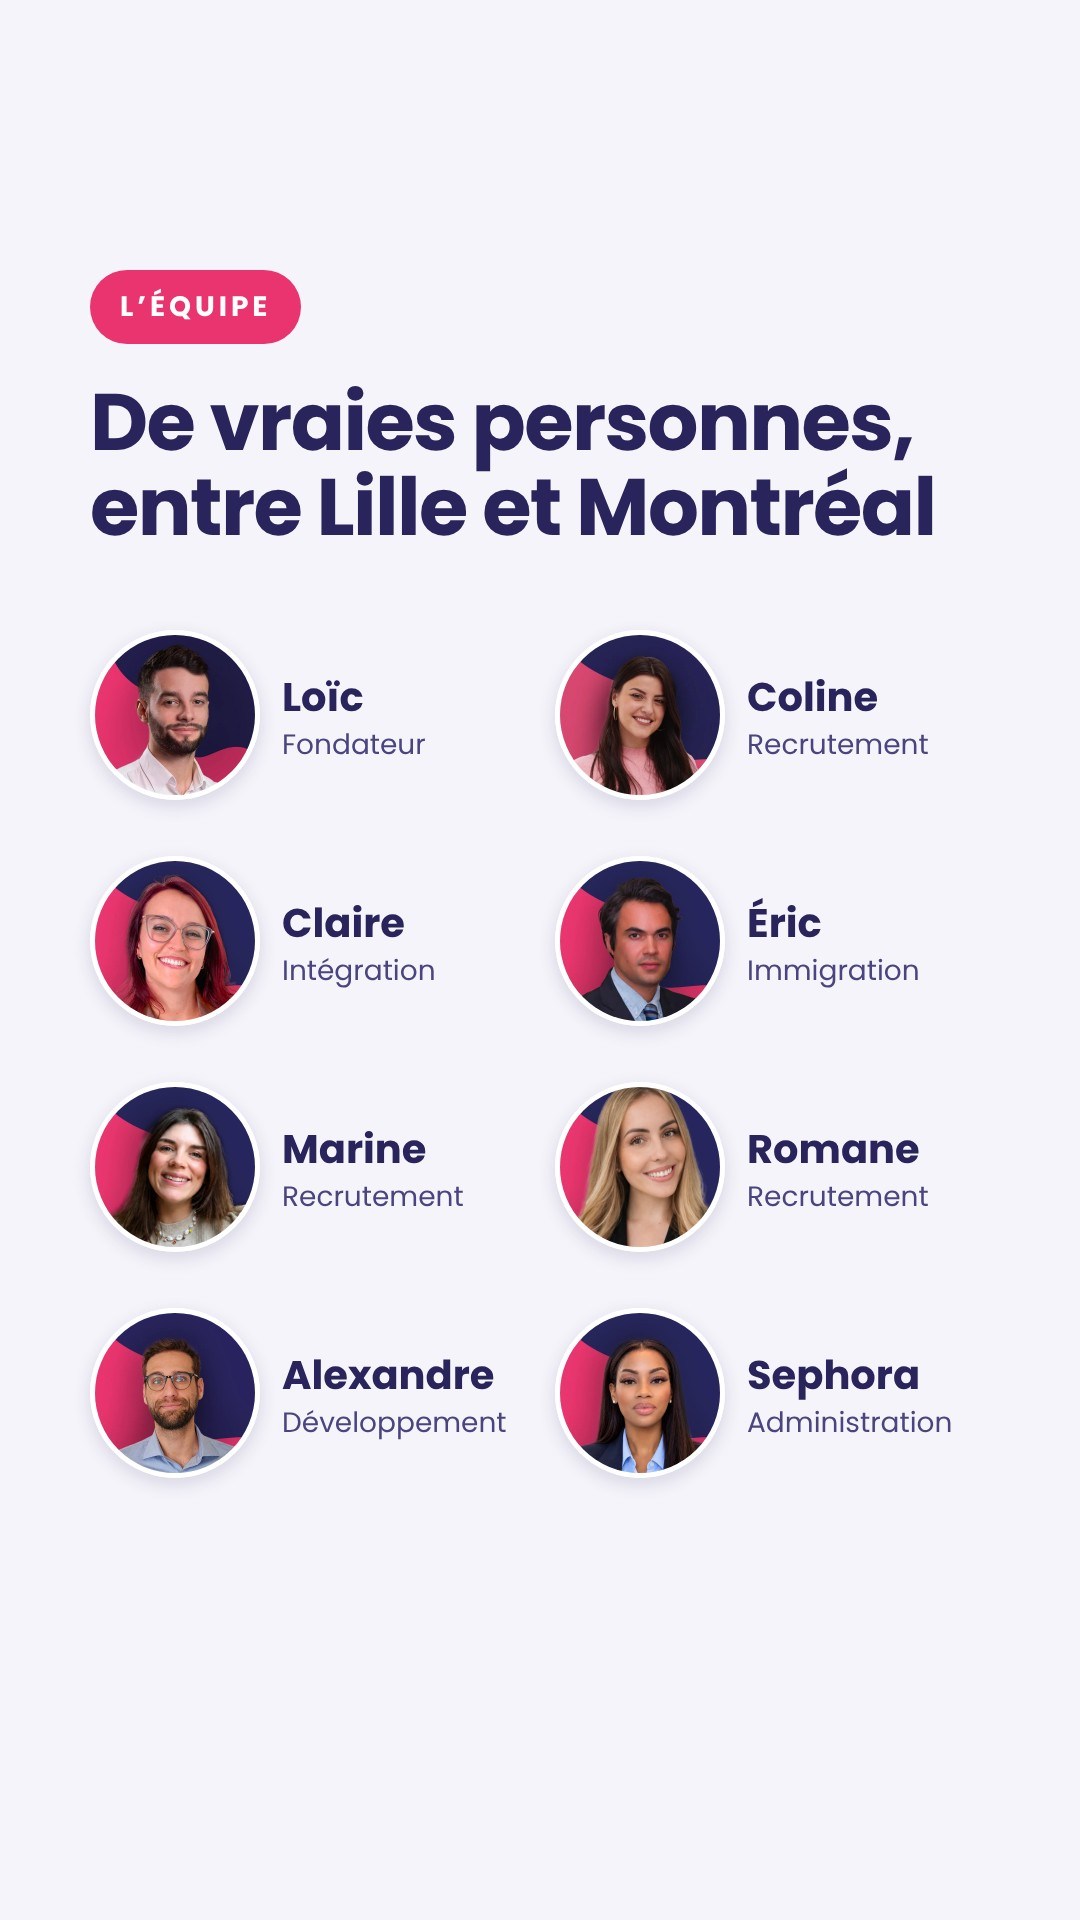
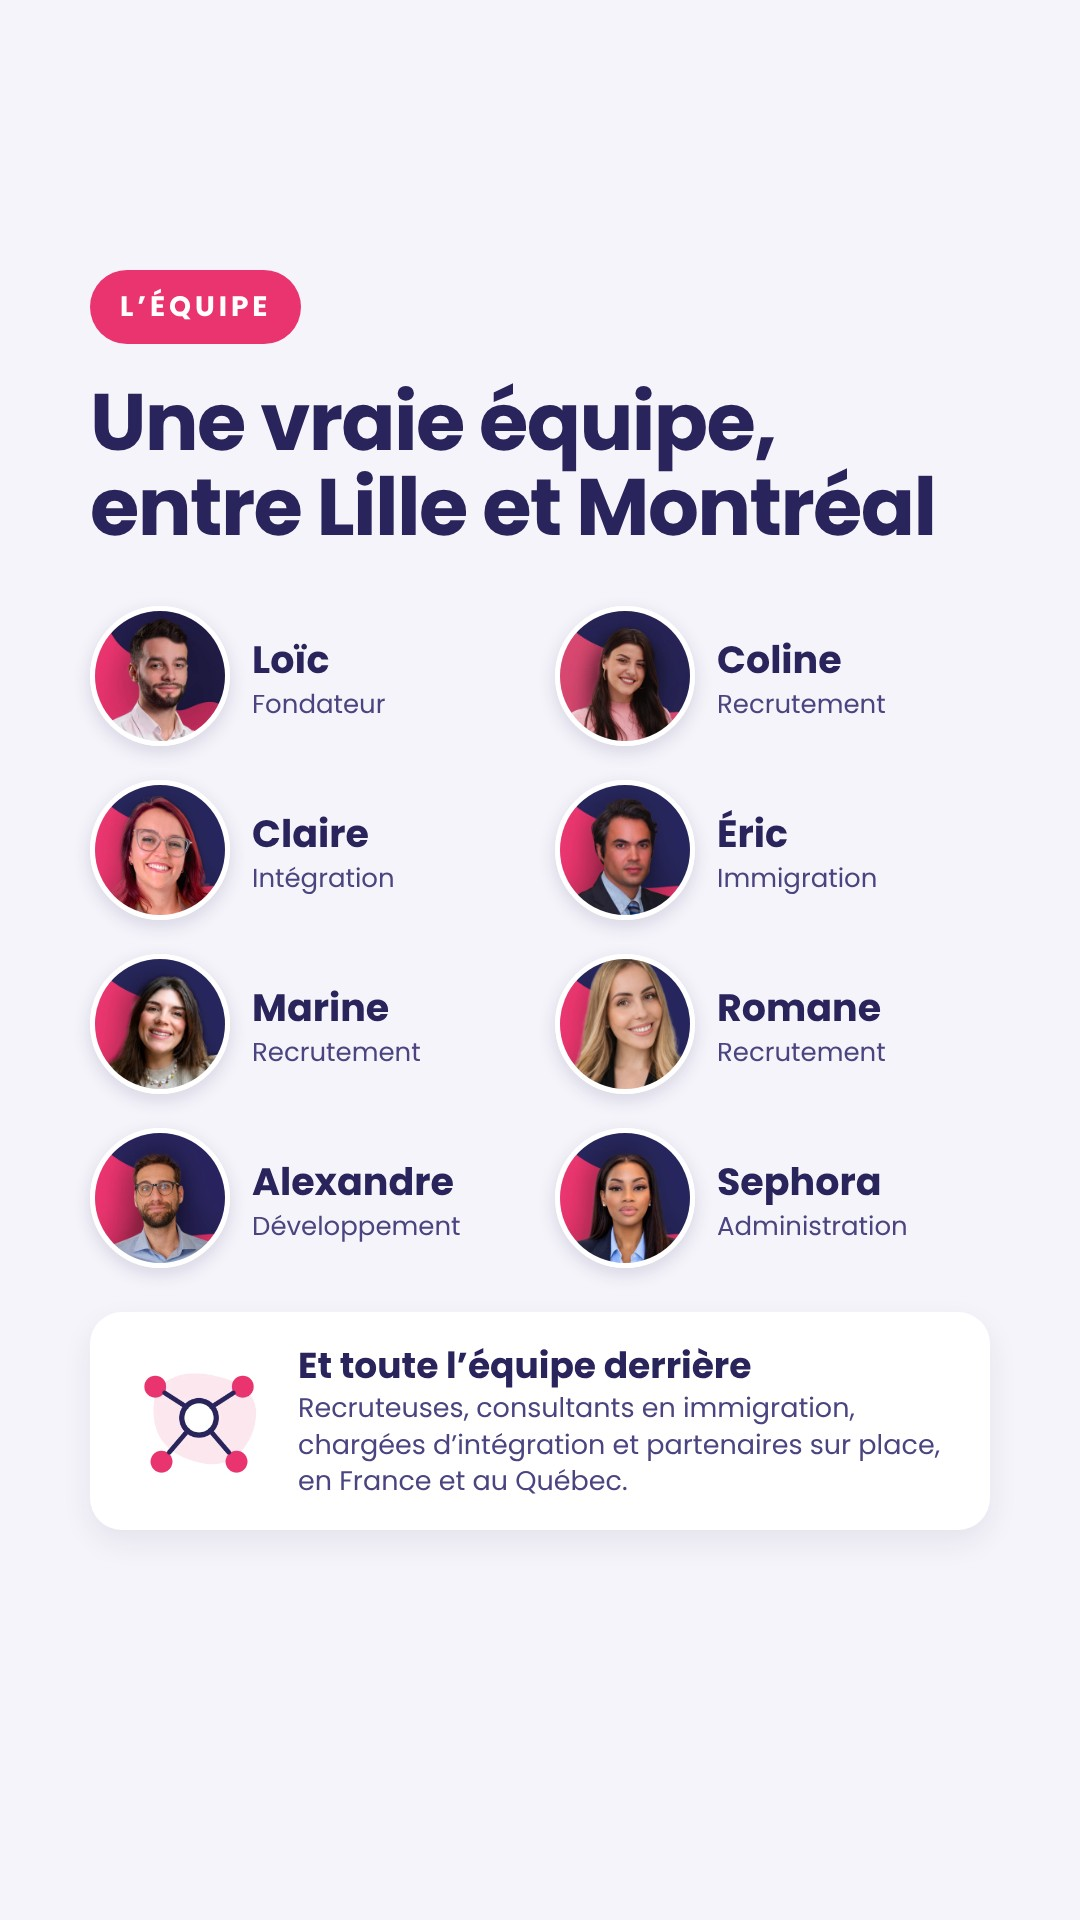
Story équipe : bloc pour le reste de l'équipe
Claude-Session: https://claude.ai/code/session_01NBGakcBRwoq7RKRswmKrSM

Changed region(s): [[0.0611, 0.3125, 0.8861, 0.7812], [0.0917, 0.1875, 0.8556, 0.25]]

diff --git a/tools/visuels/stories/qui-3.html b/tools/visuels/stories/qui-3.html
@@ -1,1 +1,1 @@
-<html><head><meta charset=utf-8><link rel=stylesheet href=base.css><link rel=stylesheet href=st.css></head><body><div class="s"><div class="safe"><span class="tag">L’équipe</span><h2>De vraies personnes, entre Lille et Montréal</h2><div class="team"><div><img src="loic.webp"><p><b>Loïc</b><span>Fondateur</span></p></div><div><img src="coline.webp"><p><b>Coline</b><span>Recrutement</span></p></div><div><img src="claire.webp"><p><b>Claire</b><span>Intégration</span></p></div><div><img src="eric.webp"><p><b>Éric</b><span>Immigration</span></p></div><div><img src="marine.webp"><p><b>Marine</b><span>Recrutement</span></p></div><div><img src="romane.webp"><p><b>Romane</b><span>Recrutement</span></p></div><div><img src="alexandre.webp"><p><b>Alexandre</b><span>Développement</span></p></div><div><img src="sephora.webp"><p><b>Sephora</b><span>Administration</span></p></div></div></div></div></body></html>
+<html><head><meta charset=utf-8><link rel=stylesheet href=base.css><link rel=stylesheet href=st.css></head><body><div class="s"><div class="safe"><span class="tag">L’équipe</span><h2>Une vraie équipe, entre Lille et Montréal</h2><div class="team"><div><img src="loic.webp"><p><b>Loïc</b><span>Fondateur</span></p></div><div><img src="coline.webp"><p><b>Coline</b><span>Recrutement</span></p></div><div><img src="claire.webp"><p><b>Claire</b><span>Intégration</span></p></div><div><img src="eric.webp"><p><b>Éric</b><span>Immigration</span></p></div><div><img src="marine.webp"><p><b>Marine</b><span>Recrutement</span></p></div><div><img src="romane.webp"><p><b>Romane</b><span>Recrutement</span></p></div><div><img src="alexandre.webp"><p><b>Alexandre</b><span>Développement</span></p></div><div><img src="sephora.webp"><p><b>Sephora</b><span>Administration</span></p></div></div><div class="more"><img class="mp" src="p-reseau.webp"><p><b>Et toute l’équipe derrière</b>Recruteuses, consultants en immigration, chargées d’intégration et partenaires sur place, en France et au Québec.</p></div></div></div></body></html>

diff --git a/tools/visuels/stories/st.css b/tools/visuels/stories/st.css
@@ -24,3 +24,14 @@ h2{font-size:80px;line-height:1.06;color:#29245c;margin-top:36px}
 .card{position:relative}
 .card .pic{position:absolute;right:34px;top:30px;width:120px}
 .card b,.card span:not(.num){padding-right:130px}
+.more{margin-top:auto;display:flex;align-items:center;gap:30px;background:#fff;border-radius:32px;padding:36px 40px;box-shadow:0 12px 30px rgba(41,36,92,.08)}
+.dots{display:flex;flex:none}
+.dots span,.dots b{width:96px;height:96px;border-radius:50%;border:5px solid #fff;margin-left:-26px;display:grid;place-items:center}
+.dots span:first-child{margin-left:0}
+.dots span:nth-child(1){background:#ea346f}.dots span:nth-child(2){background:#29245c}.dots span:nth-child(3){background:#b9c5f4}
+.dots b{background:#f5f4fa;color:#ea346f;font-size:52px;font-weight:700}
+.more p b{display:block;font-size:40px;color:#29245c}
+.more p{font-size:30px;line-height:1.35;color:#4a4580}
+.team{gap:34px 30px;margin-top:56px}.team img{width:140px;height:140px}.team b{font-size:38px}.team span{font-size:26px}
+.more{padding:30px 34px;gap:24px;margin-top:44px}.more .mp{width:150px;flex:none}
+.more p b{font-size:36px}.more p{font-size:27px}
